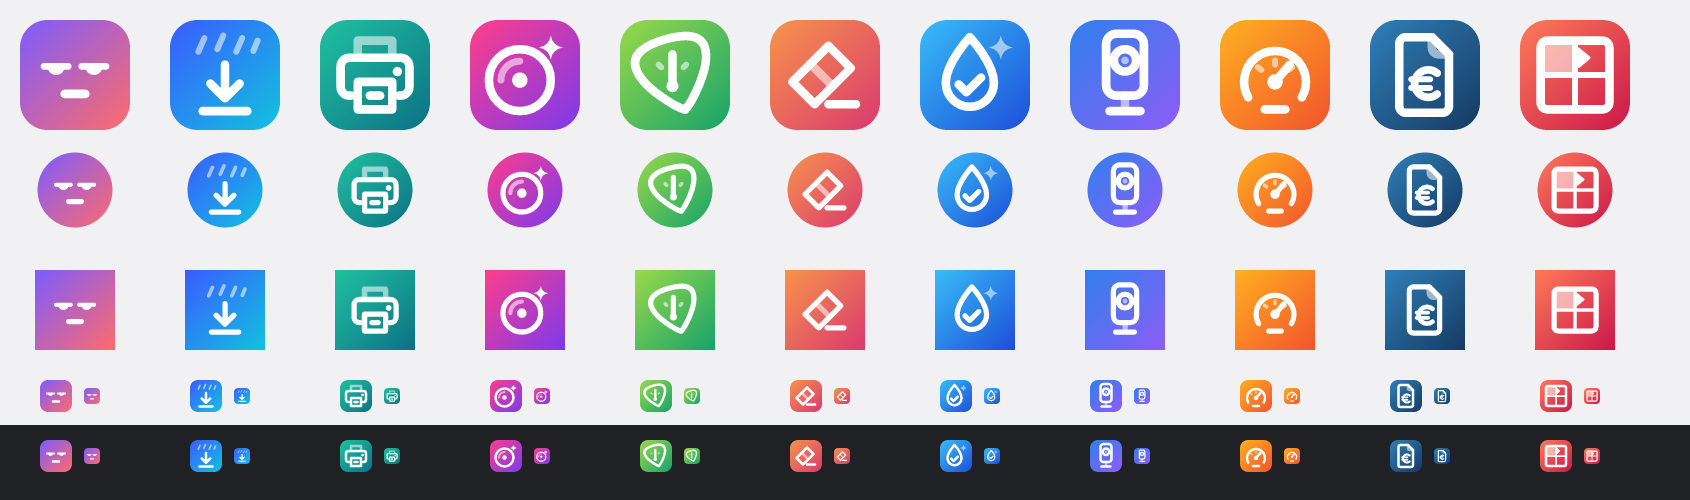
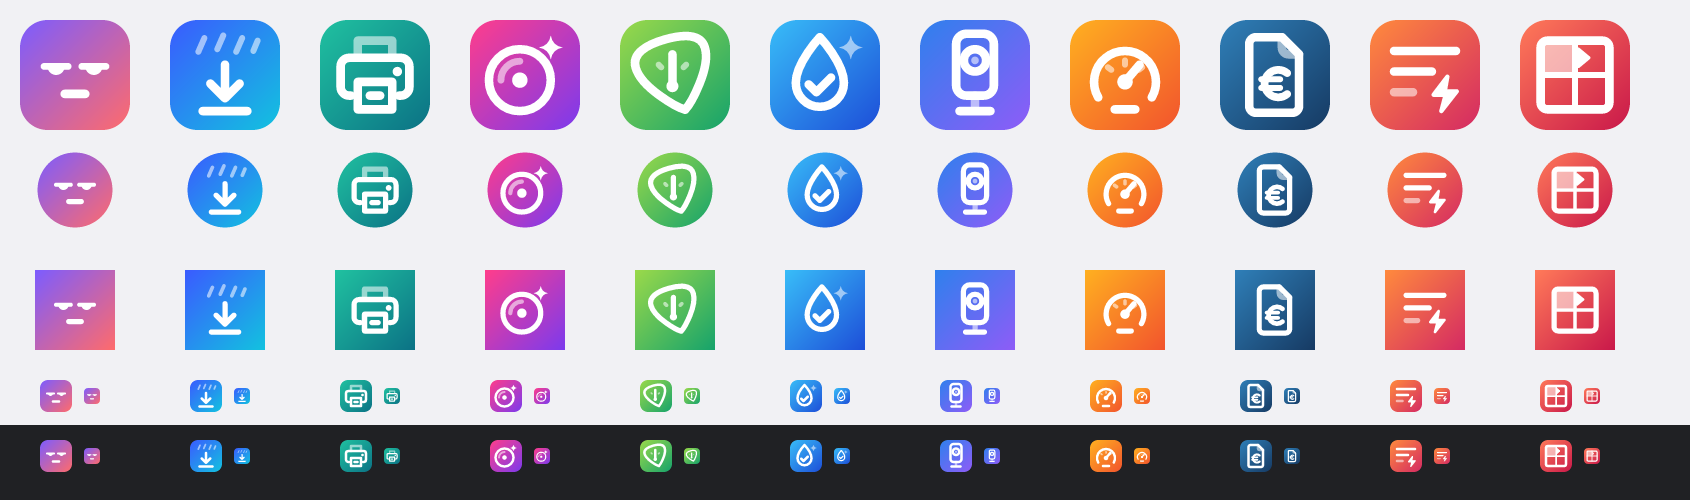
DPS meters : carte, icône et page dans le kit

diff --git a/index.html b/index.html
@@ -45,12 +45,22 @@
 
   <main>
     <section class="hero">
-      <p class="kicker">$ ls ~/projets <span class="count">10 résultats</span></p>
+      <p class="kicker">$ ls ~/projets <span class="count">11 résultats</span></p>
       <h1>Bored Dev <span class="grad">Playground</span></h1>
       <p class="lead">Des petits outils libres, gratuits et sans pub.</p>
     </section>
 
     <ul class="grid" id="projets" role="list">
+      <li class="card">
+        <img class="icon" src="assets/projects/dps-meters.svg" alt="" width="56" height="56">
+        <h2><a href="https://ghermin.github.io/dream-dps-meter/">DPS meters</a></h2>
+        <p>Tes dégâts et ton DPS en direct, intégrés à l'interface du jeu et dans son style : Shape of Dreams et Raiders of Blackveil, d'autres à venir. Un installeur, et ça se met à jour tout seul.</p>
+        <ul class="tags" role="list"><li>Windows</li><li>Jeux</li><li>Mods</li></ul>
+        <div class="links">
+          <a class="primary" href="https://ghermin.github.io/dream-dps-meter/">Ouvrir <span aria-hidden="true">→</span></a>
+          <a href="https://github.com/Ghermin/dream-dps-meter">Code</a>
+        </div>
+      </li>
       <li class="card">
         <img class="icon" src="assets/projects/rgb-manager.png" alt="" width="56" height="56">
         <h2><a href="https://ghermin.github.io/rgb-manager/">Gestionnaire RGB</a></h2>

diff --git a/brand/build.js b/brand/build.js
@@ -271,6 +271,11 @@ const TARGETS = {
     });
     android(icon, path.join(root, 'android', 'app', 'src', 'main', 'res'));
   },
+  'dps-meters'(icon) {
+    const root = P('dream-dps-meter');
+    web(icon, path.join(root, 'docs'), { svg: 'favicon.svg', i192: 'icon-192.png' });
+    write(path.join(root, 'installer', 'app.ico'), ico(icon));
+  },
   'mots-fleches'(icon) {
     web(icon, P('mots-fleches', 'icons'), {
       i192: 'icon-192.png', i512: 'icon-512.png', mask512: 'icon-maskable-512.png',
